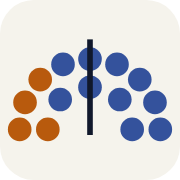
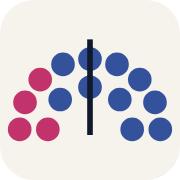
Rose for women, a female symbol in the hero
Women's seats, lines and the map ramp move from amber to rose; the
comparison country moves from plum to teal so it stays distinct.
Palettes pass the dataviz validator in light (#c2336b, #34529c,
#008a7e) and dark (#d85b8e, #7390dc, #1fa192). The hero carries a
large female symbol and 'women' in the question is set in rose. The
favicon's seats follow.

Changed region(s): [[0.0278, 0.3611, 0.3333, 0.8056]]

diff --git a/assets/css/wipeu.css b/assets/css/wipeu.css
@@ -1,5 +1,5 @@
 /* wipEU — "the chamber". Editorial serif (Newsreader) for display, Public Sans for UI and small text.
-   Paper and EU navy; women in a warm amber, men in a mid navy. Palettes validated with the dataviz
+   Paper and EU navy; women in rose, men in a mid navy, the comparison country in teal. Palettes validated with the dataviz
    skill's validate_palette.js (categorical, ordinal ramps) in both themes. */
 :root {
   color-scheme: light;
@@ -13,13 +13,13 @@
   --grid: #e0ddd2;
   --accent: #1d3c8f;         /* EU navy: links, focus, 9.0:1 */
   --accent-ink: #ffffff;     /* 10.0:1 on --accent */
-  --women: #b85a0d;          /* amber, 4.2:1 as a mark */
+  --women: #c2336b;          /* rose */
   --men: #34529c;            /* navy, 6.7:1 */
-  --cmp: #804699;            /* comparison country, plum */
+  --cmp: #008a7e;            /* comparison country, teal */
   --ref: #394257;            /* EU-27 reference line */
   --nodata: #dcd9cf;
-  --seq-0: #e09e62; --seq-1: #cc7f32; --seq-2: #b36300;
-  --seq-3: #944c00; --seq-4: #733900; --seq-5: #502900;
+  --seq-0: #eba3bd; --seq-1: #dc7699; --seq-2: #c74d7a;
+  --seq-3: #a8325e; --seq-4: #832147; --seq-5: #5c1231;
   --serif: "Newsreader", "Iowan Old Style", Georgia, serif;
   --sans: "Public Sans", system-ui, -apple-system, "Segoe UI", sans-serif;
   --gut: 24px;
@@ -31,10 +31,10 @@
     --bg: #0f1424; --bg-2: #182036; --ink: #eef0f6; --ink-2: #c4cad8; --muted: #9aa3b8;
     --rule: #2c3550; --rule-strong: #c4cad8; --grid: #1f2740;
     --accent: #a9bdf5; --accent-ink: #0f1424;
-    --women: #d9782b; --men: #7390dc; --cmp: #b078c9; --ref: #c4cad8;
+    --women: #d85b8e; --men: #7390dc; --cmp: #1fa192; --ref: #c4cad8;
     --nodata: #232b42;
-    --seq-0: #6f451c; --seq-1: #935714; --seq-2: #b66c18;
-    --seq-3: #d2863a; --seq-4: #e7a468; --seq-5: #f6c49a;
+    --seq-0: #5c1231; --seq-1: #832147; --seq-2: #a8325e;
+    --seq-3: #c74d7a; --seq-4: #dc7699; --seq-5: #f0b3c8;
   }
 }
 :root[data-theme="dark"] {
@@ -42,10 +42,10 @@
   --bg: #0f1424; --bg-2: #182036; --ink: #eef0f6; --ink-2: #c4cad8; --muted: #9aa3b8;
   --rule: #2c3550; --rule-strong: #c4cad8; --grid: #1f2740;
   --accent: #a9bdf5; --accent-ink: #0f1424;
-  --women: #d9782b; --men: #7390dc; --cmp: #b078c9; --ref: #c4cad8;
+  --women: #d85b8e; --men: #7390dc; --cmp: #1fa192; --ref: #c4cad8;
   --nodata: #232b42;
-  --seq-0: #6f451c; --seq-1: #935714; --seq-2: #b66c18;
-  --seq-3: #d2863a; --seq-4: #e7a468; --seq-5: #f6c49a;
+  --seq-0: #5c1231; --seq-1: #832147; --seq-2: #a8325e;
+  --seq-3: #c74d7a; --seq-4: #dc7699; --seq-5: #f0b3c8;
 }
 
 *, *::before, *::after { box-sizing: border-box; }
@@ -90,7 +90,12 @@ section[id], [id="method-calc"], [id="documentation"] { scroll-margin-top: 64px;
 .theme input:focus-visible + span { outline: 2px solid var(--accent); outline-offset: -4px; }
 
 /* ---------- Hero ---------- */
-.hero { padding-top: clamp(32px, 4.5vw, 64px); padding-bottom: 0; }
+.hero { position: relative; padding-top: clamp(32px, 4.5vw, 64px); padding-bottom: 0; }
+.hero > :not(.hero__sym) { position: relative; z-index: 1; }
+.hero__sym { position: absolute; right: 0; top: clamp(8px, 2vw, 32px); width: clamp(110px, 20vw, 300px); height: auto; color: var(--women); opacity: 0.9; pointer-events: none; }
+.hero h1 .w { color: var(--women); }
+@media (max-width: 720px) { .hero__sym { position: static; display: block; width: 96px; margin-bottom: 20px; } }
+@media (min-width: 721px) { .hero h1, .hero .eyebrow, .hero__sub { padding-right: clamp(130px, 22vw, 330px); } }
 .eyebrow { font-size: 13px; letter-spacing: 0.05em; text-transform: uppercase; color: var(--muted); margin-bottom: 16px; }
 .hero h1 {
   font: 450 clamp(2.1rem, 1rem + 3.3vw, 4.1rem)/1.04 var(--serif); letter-spacing: -0.018em;

diff --git a/index.html b/index.html
@@ -50,8 +50,9 @@
 
   <!-- Opening -->
   <section class="hero wrap" aria-labelledby="rq">
+    <svg class="hero__sym" viewBox="0 0 120 170" aria-hidden="true" focusable="false"><circle cx="60" cy="56" r="40" fill="none" stroke="currentColor" stroke-width="14"/><path d="M60 96 V160 M32 132 H88" fill="none" stroke="currentColor" stroke-width="14" stroke-linecap="square"/></svg>
     <p class="eyebrow">Women in Power and Decision-Making in the EU &middot; an open data project, 2023/24</p>
-    <h1 id="rq">How do the levels of representation of women in different decision-making positions correlate within the European Union?</h1>
+    <h1 id="rq">How do the levels of representation of <span class="w">women</span> in different decision-making positions correlate within the European Union?</h1>
     <p class="hero__sub">Is there a discernible pattern or trend in the relationships between women occupying various roles, and how have these correlations evolved over time?</p>
   </section>
 
